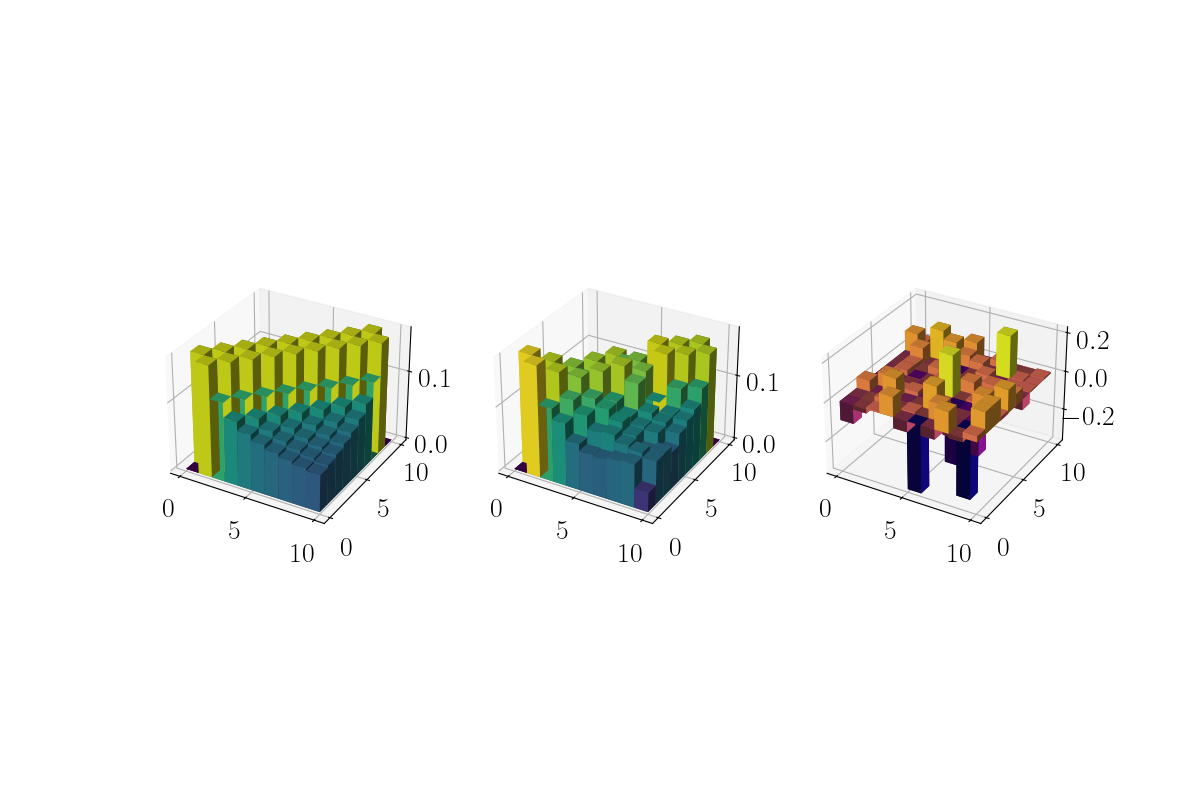
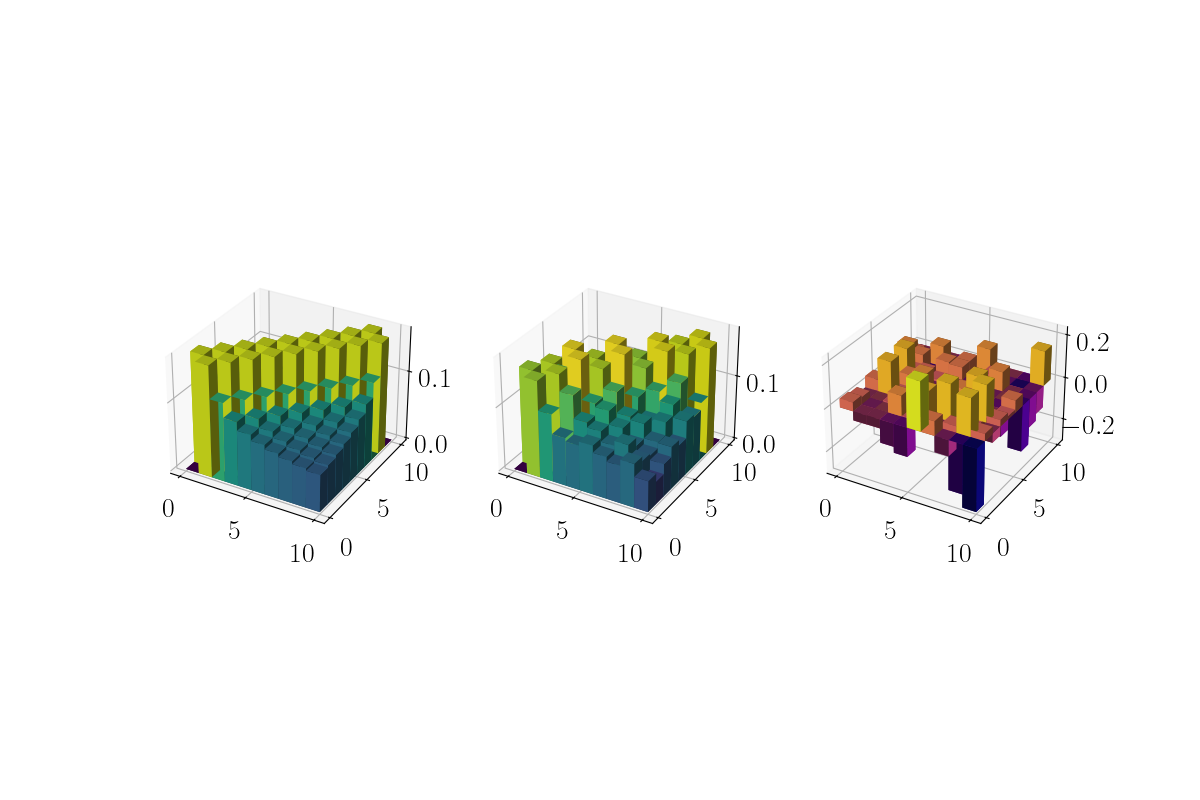
updated data generation and fixed bugs in model

Changed region(s): [[0.6783, 0.375, 0.925, 0.6562], [0.4317, 0.4062, 0.6167, 0.6562]]

diff --git a/triprism/model.py b/triprism/model.py
@@ -1,13 +1,13 @@
 import torch
 from torch import nn
+from torch.nn import Module
 from torch.nn import functional as F
 from torch.nn.init import xavier_uniform_
-import trical
-import numpy as np
 
-torch.autograd.set_detect_anomaly(True)
+import trical
 
 ########################################################################################
+
 
 class SpinDecoder(nn.Module):
     """
@@ -17,24 +17,26 @@ class SpinDecoder(nn.Module):
     - N (int): The size of the spin system.
     - hbar, m, w, b, mu, deltak, eta, nu, w_mult_nu: Physical parameters and tensors representing the quantum system.
     """
-    def __init__(self, ti, mu, deltak=torch.tensor([1, 0, 0]) * 4 * torch.pi / 355e-9):
-        super(SpinDecoder, self).__init__()
+    def __init__(self, ti, mu, deltak=torch.Tensor([1, 0, 0]) * 4 * torch.pi / 355e-9):
+        super().__init__()
+        # Define the constants and parameters directly as class attributes
         self.N = ti.N
 
-        # Define the constants and parameters directly as class attributes
-        self.hbar = torch.tensor(trical.misc.constants.hbar, dtype=torch.float32)
-        self.m = torch.tensor(ti.m, dtype=torch.float32)
-        self.w = torch.tensor(ti.w, dtype=torch.float32)
-        self.b = ti.b.reshape(3, self.N, 3 * self.N).to(torch.float32)
+        self.hbar = torch.Tensor([trical.misc.constants.hbar]).to(torch.float32)
+        self.m = torch.Tensor([ti.m]).to(torch.float32)
+        self.w = torch.from_numpy(ti.w).to(torch.float32)
+        self.b = torch.from_numpy(ti.b).to(torch.float32).reshape(3, self.N, 3 * self.N)
         self.mu = mu.to(torch.float32)
         self.deltak = deltak.to(torch.float32)
-
+        
         # Compute additional parameters
-        sqrt_term = torch.sqrt(self.hbar / (2 * self.m * self.w))
-        self.eta = torch.matmul(self.b, self.deltak.view(-1, 1)).view(self.N, 3) * sqrt_term
+        self.eta = torch.einsum("kim,k,m->im", self.b, self.deltak, torch.sqrt(self.hbar / (2 * self.m * self.w)))
         self.nu = 1 / ((self.mu**2)[:, None] - (self.w**2)[None, :])
         self.w_mult_nu = self.w * self.nu
 
+        pass
+
+    
     def vectorize_J(self, x):
         """
         Converts a matrix J to a vector by extracting the upper triangular part.
@@ -67,16 +69,16 @@ class SpinDecoder(nn.Module):
         return J
 
     def forward(self, x):
-        # Replace einsum for more intuitive tensor operations
-        y = torch.matmul(x.unsqueeze(-1), self.eta.unsqueeze(0)).squeeze(-1)
-        y = torch.matmul(y, (y * self.w_mult_nu).transpose(-1, -2))
-        
-        vectorized_y = self.vectorize_J(y)
-        normalized_y = vectorized_y / torch.norm(vectorized_y, dim=-1, keepdim=True)
-        return normalized_y
+        y = torch.einsum("...im,in->...imn", x, self.eta)
+        y = torch.einsum("...imn,...jmn->...ij", y, y * self.w_mult_nu)
+        y = self.vectorize_J(y)
+        y = y / torch.norm(y, dim=-1, keepdim=True)
+        return y
+
+    pass
+
 
 ########################################################################################
-
 class RabiEncoder(nn.Module):
     """
     Encodes Rabi frequencies for a quantum system using a neural network.
@@ -105,11 +107,14 @@ class RabiEncoder(nn.Module):
         self.layers = nn.Sequential(
             nn.Linear(self.N * (self.N - 1) // 2, self.N_h),
             self.activation,
-            nn.Linear(self.N_h, self.N_h),
-            self.activation,
             nn.Linear(self.N_h, self.N * self.N)
-            
         )
+
+    def forward(self, x):
+        y = self.layers(x)
+        y = y.reshape(-1, self.N, self.N)
+
+        return y
         
     def forwardOmega(self, x):
         """
@@ -121,7 +126,7 @@ class RabiEncoder(nn.Module):
         Returns:
         - Tensor: Normalized tensor after encoding.
         """
-        y = self.forward(x)
+        y = self(x)
         return y / torch.norm(y, dim=(-1, -2), keepdim=True)
 
 
@@ -167,7 +172,6 @@ class PrISM(nn.Module):
         y = self.encoder(x)
         return self.decoder(y)
 
-    # TODO: understand how these loss functions compares target and predicted configuration matrices
 
     def reconstruction_loss(self, x):
         """

diff --git a/triprism/data.py b/triprism/data.py
@@ -2,40 +2,26 @@ import torch
 from .model import SpinDecoder
 
 ########################################################################################
-
-
-def generate_feasible_interactions(N: int, batch_size: int, spin_decoder: SpinDecoder, device: torch.device):
-    """
-    Generates feasible interaction matrices using the provided spin decoder.
-
-    This function creates random Omega matrices and then uses the spin decoder to transform these into interaction matrices (J). This is typically used for generating synthetic data for training or testing in quantum systems simulations.
-
-    Args:
-        N (int): The size of the interaction matrix, typically representing the number of ions or spins in the quantum system.
-        batch_size (int): The number of interaction matrices to generate.
-        spin_decoder (SpinDecoder): An instance of the SpinDecoder class used for transforming Omega matrices into interaction matrices.
-        device (torch.device): The computational device (CPU or GPU) where the tensor operations will be performed.
-
-    Returns:
-        torch.Tensor: A tensor of interaction matrices (J) of shape (batch_size, N, N).
-    """
-    return J
-
-
 def generate_random_interactions(N: int, batch_size: int, device: torch.device):
     """
-    Generates random interaction matrices (J) for a given size and batch.
-
-    This function is used to create a batch of random interaction matrices, typically for the purpose of testing or training
-    neural network models in quantum system simulations. The interaction matrices are normalized to have a unit norm.
+    Generate random spin interactions.
 
     Args:
-        N (int): The size of the interaction matrix, typically representing the number of ions or spins in the quantum system.
-        batch_size (int): The number of interaction matrices to generate.
-        device (torch.device): The computational device (CPU or GPU) where the tensor operations will be performed.
+    - N (int): The size of the spin system.
+    - batch_size (int): The number of interaction sets to generate.
+    - device (torch.device): The device on which the computations will be executed.
 
     Returns:
-        torch.Tensor: A tensor of normalized random interaction matrices of shape (batch_size, N * (N - 1) / 2).
+    - torch.Tensor: Tensor representing the random spin interactions.
     """
 
-    return J
+    # Calculate the number of unique interactions in a system of size N
+    num_interactions = int(N * (N - 1) / 2)
+
+    # Generate a random tensor for interactions
+    J = torch.randn((batch_size, num_interactions), device=device)
+
+    # Normalize J for each set of interactions in the batch
+    J_normalized = J / torch.norm(J, dim=1, keepdim=True)
+
+    return J_normalized

diff --git a/scripts/experiment.py b/scripts/experiment.py
@@ -76,7 +76,8 @@ from mpl_toolkits.axes_grid1 import make_axes_locatable
 import seaborn as sns
 
 import trical
-import triprism.model
+import triprism.old_model
+
 
 ########################################################################################
 
@@ -162,7 +163,7 @@ for epoch in range(N_epochs):
 
     optimizer.zero_grad()
 
-    train_infidelity = model.train().smoothed_reconstruction_loss(J_train, 1e-2)
+    train_infidelity = model.train().reconstruction_loss(J_train)
 
     running_loss = train_infidelity
     running_loss.backward()
